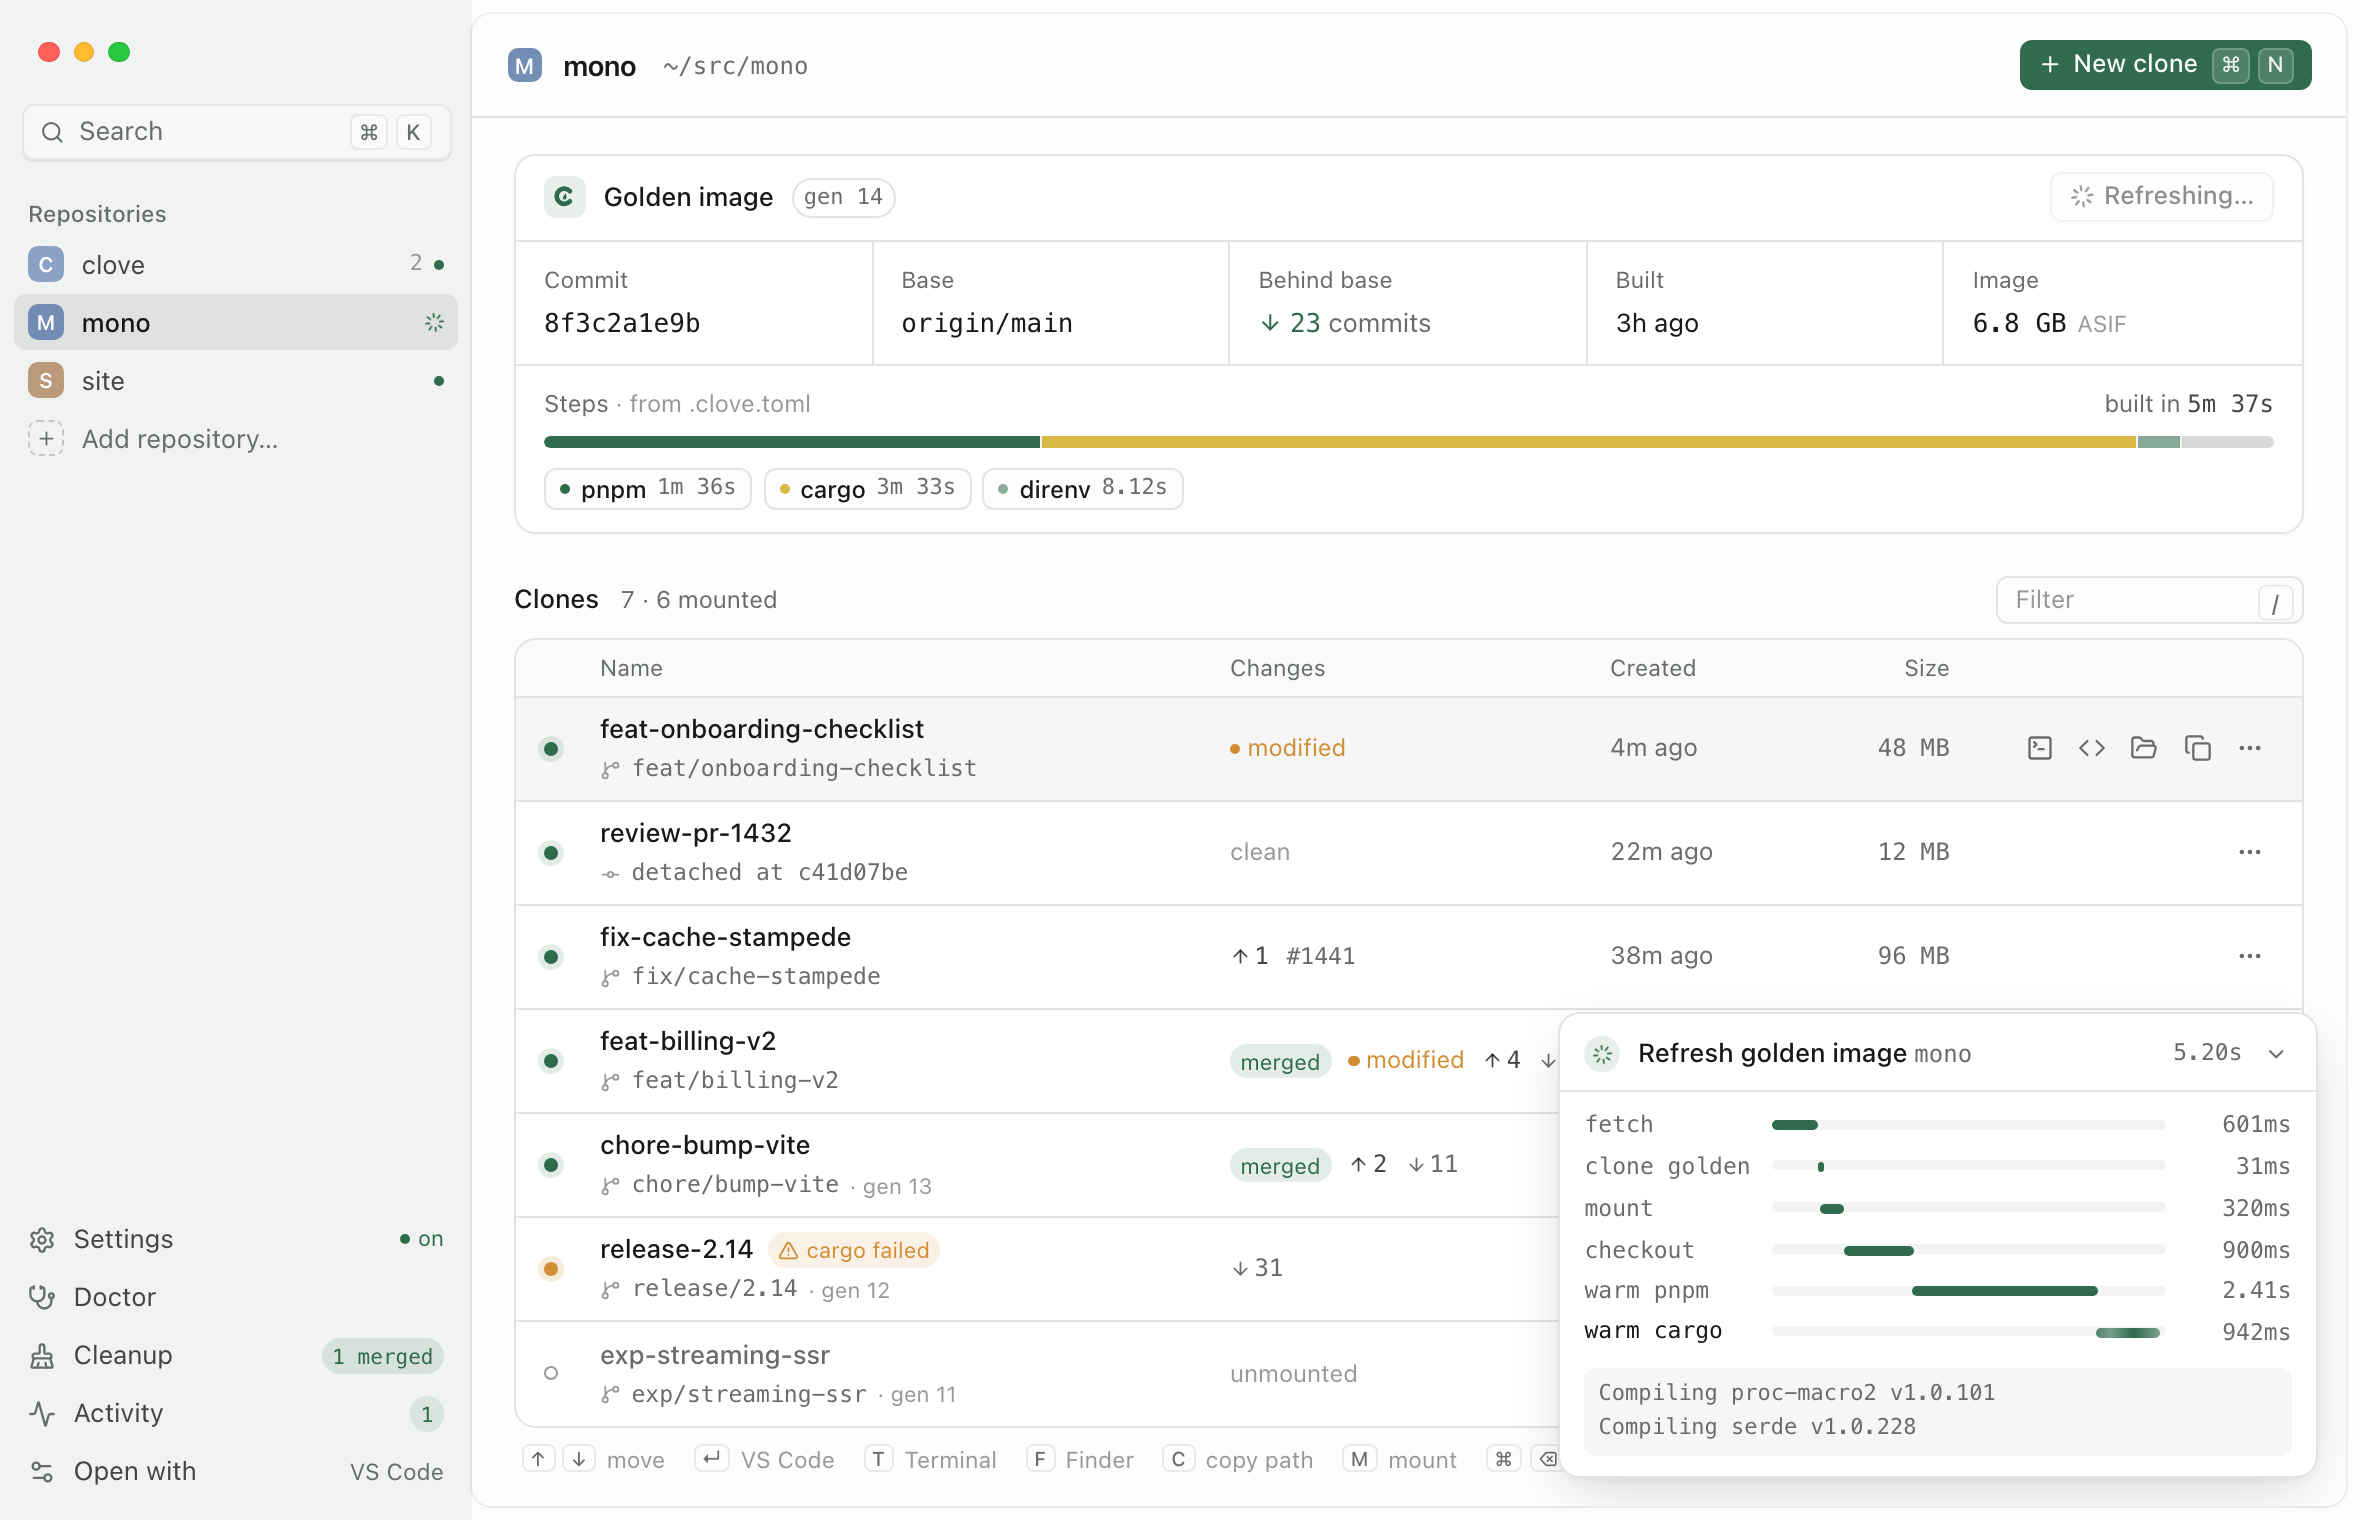
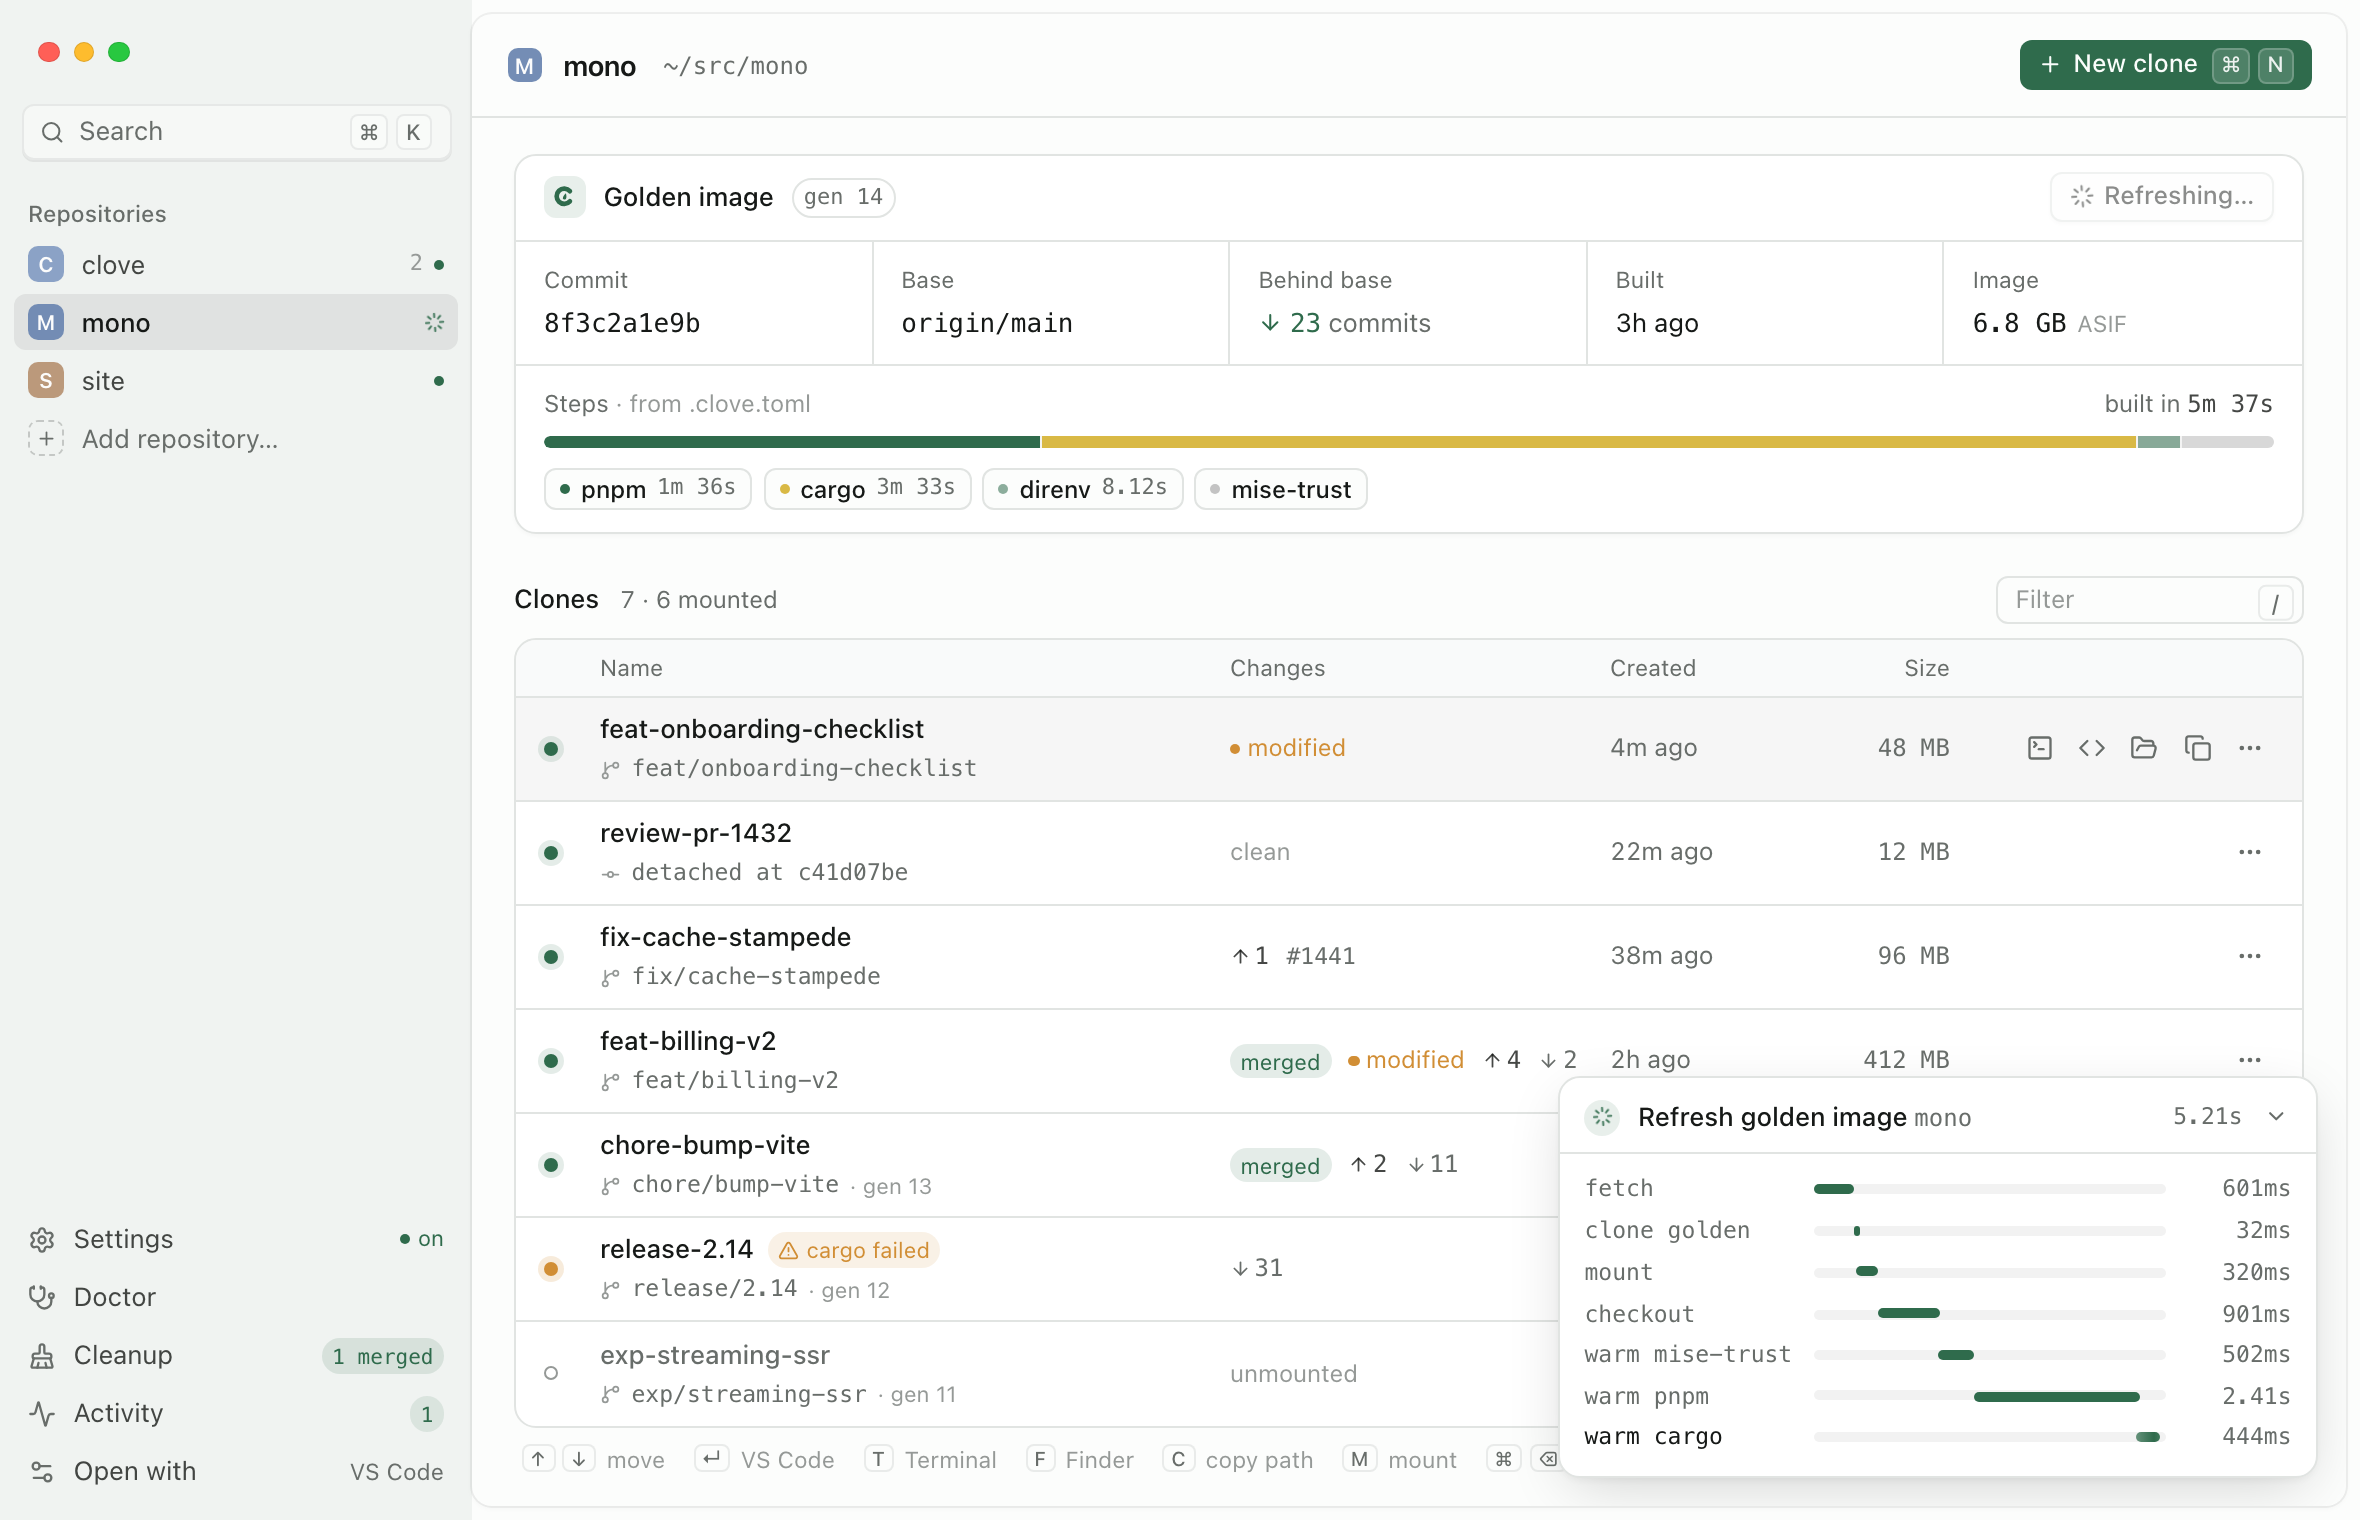
fix(desktop): steps without a watch list crashed the repo page
clove-core leaves a step's defaults out of its JSON (empty watch/env,
wrap = true), and the app read step.watch.length. Normalise steps where
the API returns them, make the mock send the real shape, and show a
readable crash screen (message, stack, reload, copy) instead of the
router's default.

Claude-Session: https://claude.ai/code/session_01E1YMTnvbY8BA1fD2mxHijj

diff --git a/apps/desktop/src/lib/api.ts b/apps/desktop/src/lib/api.ts
@@ -12,11 +12,22 @@ import type {
   RepoStatus,
   RepoSummary,
   ShellStatus,
+  Step,
 } from "./types";
+
+/**
+ * clove-core leaves a step's defaults out of its JSON (an empty `watch` or
+ * `env`, `wrap = true`) so `.clove.toml` stays short. Put them back here, once,
+ * so screens can trust the type.
+ */
+export function normStep(s: Partial<Step> & { name: string }): Step {
+  return { ...s, watch: s.watch ?? [], env: s.env ?? {}, wrap: s.wrap ?? true };
+}
 
 export const api = {
   repos: () => invoke<RepoSummary[]>("repos"),
-  status: (root: string) => invoke<RepoStatus>("repo_status", { root }),
+  status: (root: string) =>
+    invoke<RepoStatus>("repo_status", { root }).then((s) => ({ ...s, steps: s.steps.map(normStep) })),
   clones: (root: string, status: boolean) => invoke<CloneInfo[]>("clones", { root, status }),
   refs: (root: string) => invoke<Refs>("refs", { root }),
   doctorMachine: () => invoke<Check[]>("doctor_machine"),
@@ -28,7 +39,11 @@ export const api = {
   installedApps: () => invoke<AppId[]>("installed_apps"),
   openIn: (path: string, app: AppId) => invoke<void>("open_in", { path, app }),
   copy: (text: string) => invoke<void>("copy_text", { text }),
-  repoConfig: (root: string) => invoke<RepoConfig>("repo_config", { root }),
+  repoConfig: (root: string) =>
+    invoke<RepoConfig>("repo_config", { root }).then((r) => ({
+      ...r,
+      config: { ...r.config, steps: r.config.steps.map(normStep) },
+    })),
   editConfig: (path: string) => invoke<void>("edit_config", { path }),
   serviceStatus: () => invoke<boolean>("service_status"),
   serviceSet: (install: boolean) => invoke<boolean>("service_set", { install }),

diff --git a/apps/desktop/src/components/crash.tsx b/apps/desktop/src/components/crash.tsx
@@ -1,0 +1,39 @@
+import type { ErrorComponentProps } from "@tanstack/react-router";
+import { Button } from "@/components/ui/button";
+
+/** A page threw while rendering: say what, keep the window draggable, offer a reload. */
+export function Crash({ error, reset }: ErrorComponentProps) {
+  const message = error instanceof Error ? error.message : String(error);
+  const stack = error instanceof Error ? error.stack : undefined;
+  return (
+    <div className="flex h-full flex-col gap-4 overflow-auto p-8 pt-14" data-tauri-drag-region>
+      <div>
+        <h1 className="font-medium text-[15px]">This screen hit an error</h1>
+        <p className="mt-1 text-[13px] text-muted-foreground">
+          The rest of clove still works. Reload, or copy the details into an issue.
+        </p>
+      </div>
+      <pre className="select-text whitespace-pre-wrap rounded-md border bg-muted/40 p-3 font-mono text-[12px] text-destructive">
+        {message}
+      </pre>
+      {stack && (
+        <pre className="select-text whitespace-pre-wrap rounded-md border bg-muted/20 p-3 font-mono text-[11px] text-muted-foreground">
+          {stack}
+        </pre>
+      )}
+      <div className="flex gap-2">
+        <Button
+          onClick={() => {
+            reset();
+            window.location.reload();
+          }}
+        >
+          Reload
+        </Button>
+        <Button variant="outline" onClick={() => navigator.clipboard?.writeText(`${message}\n\n${stack ?? ""}`)}>
+          Copy details
+        </Button>
+      </div>
+    </div>
+  );
+}

diff --git a/apps/desktop/src/router.tsx b/apps/desktop/src/router.tsx
@@ -1,5 +1,6 @@
 import { createHashHistory, createRootRoute, createRoute, createRouter, Outlet } from "@tanstack/react-router";
 import { AppShell } from "@/components/app-shell";
+import { Crash } from "@/components/crash";
 import { CleanupPage } from "@/routes/cleanup";
 import { DoctorPage } from "@/routes/doctor";
 import { HomePage } from "@/routes/home";
@@ -30,7 +31,12 @@ const routeTree = rootRoute.addChildren([
 ]);
 
 // Hash history: the bundled app is one index.html, so deep links must not hit the asset server.
-export const router = createRouter({ routeTree, history: createHashHistory(), defaultPreload: false });
+export const router = createRouter({
+  routeTree,
+  history: createHashHistory(),
+  defaultPreload: false,
+  defaultErrorComponent: Crash,
+});
 
 declare module "@tanstack/react-router" {
   interface Register {

diff --git a/apps/desktop/src/mock/fixtures.ts b/apps/desktop/src/mock/fixtures.ts
@@ -44,6 +44,10 @@ const direnv: Step = {
   env: {},
 };
 
+// What clove-core really sends for a step that always runs: no watch, no env,
+// no wrap (defaults are left out). Keeps the mock honest about that shape.
+const miseTrust = { name: "mise-trust", setup: "mise trust --quiet --yes ." } as unknown as Step;
+
 function check(
   clone: string,
   branch: string | null,
@@ -132,7 +136,7 @@ export function seed(): Map<string, MockRepo> {
           { step: "unmount", ms: 610 },
         ],
       }),
-      steps: [pnpm, cargo, direnv],
+      steps: [miseTrust, pnpm, cargo, direnv],
       steps_detected: false,
     },
     clones: [
